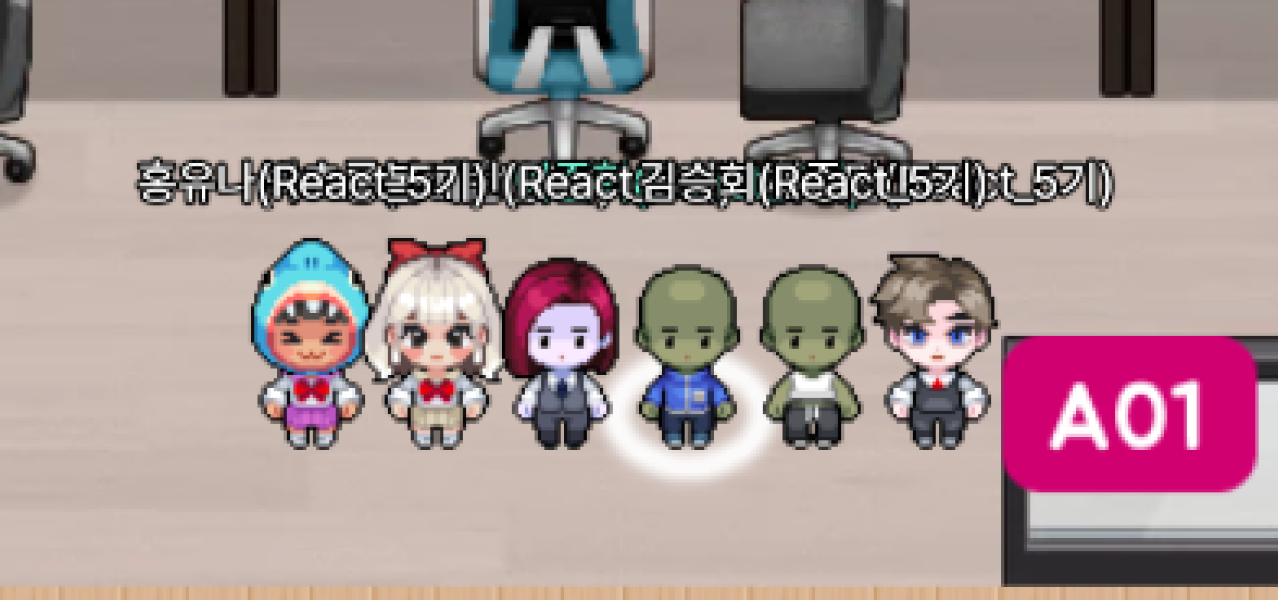
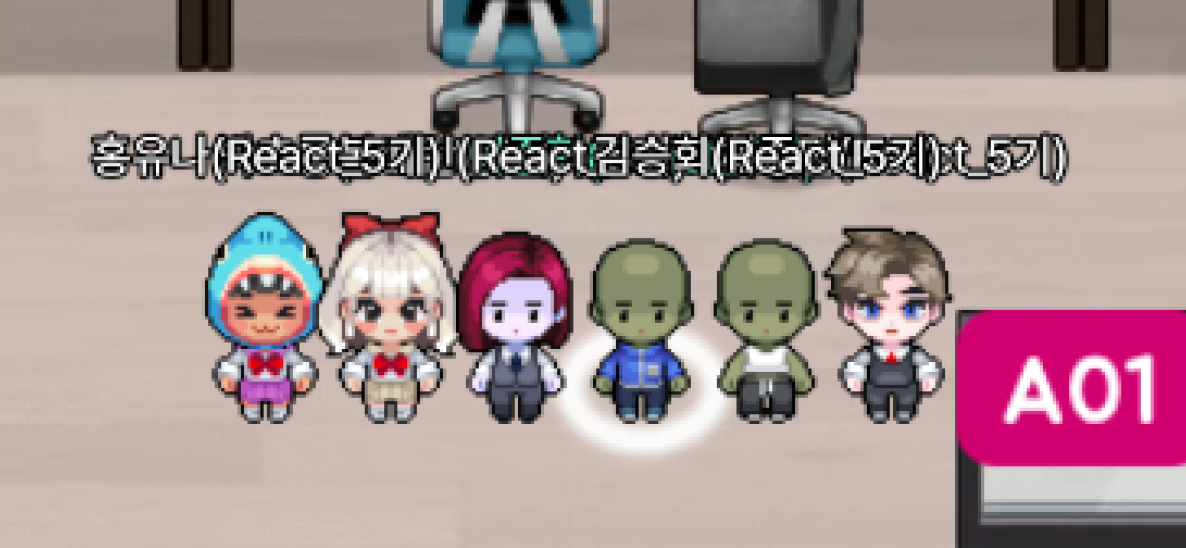
메인 css 수정 이미지 추가

diff --git a/css/styles.css b/css/styles.css
@@ -58,7 +58,7 @@ html {
   width: 400px;
   margin: 0 auto;
   padding-top: calc(150px + 7vh);
-  margin-bottom: 10vh;
+  margin-bottom: 9vh;
 }
 @media screen and (min-width: 740px) {
   .main_img {
@@ -78,20 +78,34 @@ html {
 
 .introduce_text {
   display: flex;
-  margin-top: 50px;
+  margin-top: 25px;
   font-size: 30px;
   justify-content: space-between;
   flex-direction: column;
   color: #000;
+  align-items: center;
 }
 @media screen and (min-width: 740px) {
   .introduce_text {
     flex-direction: row;
   }
 }
-.introduce_text > p:first-child {
+
+.round__rec {
+  display: flex;
+  width: 20vw;
+  height: 8vh;
+  border-radius: 50px;
+  background-color: black;
+  color: white;
   font-size: 35px;
+  align-items: center;
+  justify-content: center;
 }
+
+/* .introduce_text > p:first-child {
+  font-size: 35px;
+} */
 
 .introduce_text div p {
   line-height: 50px;
